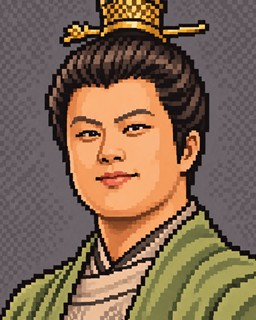
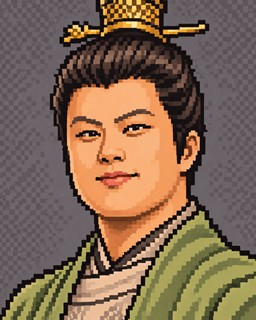
웹 업데이트 2026-11-28 14:30

Changed region(s): [[0.7188, 0.1875, 0.8438, 0.4375], [0.1562, 0.2188, 0.25, 0.5]]

diff --git a/index.html b/index.html
@@ -9,7 +9,7 @@
   <link rel="preload" href="fonts/Sam3KRFont.woff" as="font" type="font/woff" crossorigin><!-- 글꼴을 가장 먼저 받기 시작 -->
   <link rel="preload" href="img/loading.png" as="image"><!-- 로딩 그림도 먼저 -->
   <link rel="icon" type="image/svg+xml" href="img/favicon.svg">
-<link rel="stylesheet" href="style.css?v=20261128142624">
+<link rel="stylesheet" href="style.css?v=20261128143016">
 </head>
 <body class="loading">
   <header class="win titlebar">
@@ -197,24 +197,24 @@
 
   <script src="https://cdn.jsdelivr.net/npm/@supabase/supabase-js@2.45.4/dist/umd/supabase.min.js"></script>
   <script src="https://accounts.google.com/gsi/client" async></script><!-- 구글 로그인 단추 -->
-  <script src="server.js?v=20261128142624"></script>
-  <script src="mapcore.js?v=20261128142624"></script>
-  <script src="data/map.js?v=20261128142624"></script>
-  <script src="rules.js?v=20261128142624"></script>
-  <script src="faces.js?v=20261128142624"></script>
-  <script src="patchnotes.js?v=20261128142624"></script>
+  <script src="server.js?v=20261128143016"></script>
+  <script src="mapcore.js?v=20261128143016"></script>
+  <script src="data/map.js?v=20261128143016"></script>
+  <script src="rules.js?v=20261128143016"></script>
+  <script src="faces.js?v=20261128143016"></script>
+  <script src="patchnotes.js?v=20261128143016"></script>
   <!-- 시즌별 패치노트: 옛 시즌부터 (마지막 줄이 최신) -->
-  <script src="patchnotes/s3.js?v=20261128142624"></script>
-  <script src="patchnotes/s4.js?v=20261128142624"></script>
-  <script src="patchnotes/s5.js?v=20261128142624"></script>
-  <script src="patchnotes/s6.js?v=20261128142624"></script>
-  <script src="patchnotes/s7.js?v=20261128142624"></script>
-  <script src="patchnotes/s8.js?v=20261128142624"></script>
-  <script src="patchnotes/s9.js?v=20261128142624"></script>
-  <script src="mapbg.js?v=20261128142624"></script>
-  <script src="map.js?v=20261128142624"></script>
-  <script src="engine.js?v=20261128142624"></script>
-  <script src="game.js?v=20261128142624"></script>
-  <script src="help.js?v=20261128142624"></script><!-- 새 도움말 (2026-11-25) -->
+  <script src="patchnotes/s3.js?v=20261128143016"></script>
+  <script src="patchnotes/s4.js?v=20261128143016"></script>
+  <script src="patchnotes/s5.js?v=20261128143016"></script>
+  <script src="patchnotes/s6.js?v=20261128143016"></script>
+  <script src="patchnotes/s7.js?v=20261128143016"></script>
+  <script src="patchnotes/s8.js?v=20261128143016"></script>
+  <script src="patchnotes/s9.js?v=20261128143016"></script>
+  <script src="mapbg.js?v=20261128143016"></script>
+  <script src="map.js?v=20261128143016"></script>
+  <script src="engine.js?v=20261128143016"></script>
+  <script src="game.js?v=20261128143016"></script>
+  <script src="help.js?v=20261128143016"></script><!-- 새 도움말 (2026-11-25) -->
 </body>
 </html>

diff --git a/game.js b/game.js
@@ -2181,7 +2181,7 @@ function tourOpenDuel(T, m) {
   tourCloseDuel();
   const w = document.createElement('div');
   w.id = 'duelWrap';
-  w.innerHTML = `<div class="duelBox"><div class="duelBar"><span>${tourIcon(T)} ${tourMatchName(m.slot)} · ${esc(m.names[0])} vs ${esc(m.names[1])}</span><button class="duelClose">✕ 대진표로</button></div><iframe src="duel.html?v=20261128142624&kind=${tourKind(T)}#web&id=${T.id}-${m.slot}" title="무술대회 경기"></iframe></div>`;
+  w.innerHTML = `<div class="duelBox"><div class="duelBar"><span>${tourIcon(T)} ${tourMatchName(m.slot)} · ${esc(m.names[0])} vs ${esc(m.names[1])}</span><button class="duelClose">✕ 대진표로</button></div><iframe src="duel.html?v=20261128143016&kind=${tourKind(T)}#web&id=${T.id}-${m.slot}" title="무술대회 경기"></iframe></div>`;
   w.querySelector('.duelClose').onclick = tourCloseDuel;
   document.body.appendChild(w); fitDuel(w);
   bgmHold(true);
@@ -2191,7 +2191,7 @@ function tourOpenPractice(kind = 'martial') { // kind: 'debate'면 설전 연습
   tourCloseDuel();
   const w = document.createElement('div');
   w.id = 'duelWrap';
-  w.innerHTML = `<div class="duelBox"><div class="duelBar"><span>${kind === 'debate' ? '🗣 설전 연습' : '🥋 연습 경기'}</span><button class="duelClose">✕ 닫기</button></div><iframe src="duel.html?v=20261128142624&kind=${kind}#practice" title="연습 경기"></iframe></div>`;
+  w.innerHTML = `<div class="duelBox"><div class="duelBar"><span>${kind === 'debate' ? '🗣 설전 연습' : '🥋 연습 경기'}</span><button class="duelClose">✕ 닫기</button></div><iframe src="duel.html?v=20261128143016&kind=${kind}#practice" title="연습 경기"></iframe></div>`;
   w.querySelector('.duelClose').onclick = tourCloseDuel;
   document.body.appendChild(w); fitDuel(w);
   bgmHold(true);
@@ -2201,7 +2201,7 @@ function tourOpenRules() {
   tourCloseDuel();
   const w = document.createElement('div');
   w.id = 'duelWrap';
-  w.innerHTML = `<div class="duelBox"><div class="duelBar"><span>📖 ${tourName(tourT())} 규칙</span><button class="duelClose">✕ 대진표로</button></div><iframe src="duel.html?v=20261128142624&kind=${tourKind(tourT())}#rules" title="대회 규칙"></iframe></div>`;
+  w.innerHTML = `<div class="duelBox"><div class="duelBar"><span>📖 ${tourName(tourT())} 규칙</span><button class="duelClose">✕ 대진표로</button></div><iframe src="duel.html?v=20261128143016&kind=${tourKind(tourT())}#rules" title="대회 규칙"></iframe></div>`;
   w.querySelector('.duelClose').onclick = tourCloseDuel;
   document.body.appendChild(w); fitDuel(w);
 }

diff --git a/duel.html b/duel.html
@@ -4,7 +4,7 @@
 <meta charset="utf-8">
 <meta name="viewport" content="width=device-width, initial-scale=1">
 <title>무술대회</title>
-<link rel="stylesheet" href="style.css?v=20261128142624">
+<link rel="stylesheet" href="style.css?v=20261128143016">
 <!-- 무술대회 대결 화면 (웹, 2026-11-14). 게임 화면(game.js tourOpenDuel)이 iframe으로 띄운다: duel.html#web&id=경기id
      lab/martial.html(연구용)에서 만들었다. 규칙은 duel_rules.js, 판정·손패는 서버(duel_core.js)가 한다.
      서버와는 부모 창(게임)의 로그인을 그대로 쓴다: parent.api('duelView'|'duelAct'), parent.sb(실시간 알림 'duel-경기id') -->
@@ -278,7 +278,7 @@
   </div>
 </div>
 
-<script src="duel_rules.js?v=20261128142624"></script>
+<script src="duel_rules.js?v=20261128143016"></script>
 <script>
 // ↓ game.js와 같은 글자 손질 (2026-11-15 기획자: 경기장·규칙 창에도 물결 내리기 적용). game.js 쪽을 바꾸면 여기도
 // 가운데 점 붙이기·물결 내리기 (2026-11-03, 삼국지3글꼴): 이 글꼴은 '·' 자체가 넓어서 양옆 띄어쓰기를 화면에서 뺀다 ("통솔 87 · 무력" → "통솔 87·무력").

diff --git a/rogue.html b/rogue.html
@@ -4,7 +4,7 @@
 <meta charset="utf-8">
 <meta name="viewport" content="width=device-width, initial-scale=1">
 <title>맹장집결</title>
-<link rel="stylesheet" href="style.css?v=20261128142624">
+<link rel="stylesheet" href="style.css?v=20261128143016">
 <!-- 무술대회 카드 대결 연구용 (2026-11-14). 로컬 전용: tools/make_web.sh 목록에 없어서 웹에 올라가지 않는다.
      규칙 (기획자 2026-11-14 확정):
      - 동시 제출. 카드 9종 = 속공·강타·역습 × 소·중·대 (2026-11-14 공격·기술·방어에서 이름 바꿈). 상성 속공 > 강타 > 역습 > 속공. 같은 종류면 대 > 중 > 소, 같으면 비김
@@ -335,8 +335,8 @@
   </div>
 </div>
 
-<script src="duel_rules.js?v=20261128142624"></script>
-<script src="rogue_rules.js?v=20261128142624"></script>
+<script src="duel_rules.js?v=20261128143016"></script>
+<script src="rogue_rules.js?v=20261128143016"></script>
 <!-- 인트로 소리 (파일로 열어도 되게 글자로) -->
 <script>
 'use strict';

diff --git a/privacy.html b/privacy.html
@@ -5,7 +5,7 @@
 <meta name="viewport" content="width=device-width, initial-scale=1">
 <title>개인정보 처리방침 - 땅국지</title>
 <link rel="icon" type="image/svg+xml" href="img/favicon.svg">
-<link rel="stylesheet" href="style.css?v=20261128142624">
+<link rel="stylesheet" href="style.css?v=20261128143016">
 <style>
   body { padding: 16px; }
   .doc { max-width: 760px; margin: 0 auto; line-height: 1.6; }

diff --git a/terms.html b/terms.html
@@ -5,7 +5,7 @@
 <meta name="viewport" content="width=device-width, initial-scale=1">
 <title>이용약관 - 땅국지</title>
 <link rel="icon" type="image/svg+xml" href="img/favicon.svg">
-<link rel="stylesheet" href="style.css?v=20261128142624">
+<link rel="stylesheet" href="style.css?v=20261128143016">
 <style>
   body { padding: 16px; }
   .doc { max-width: 760px; margin: 0 auto; line-height: 1.6; }

diff --git a/faces.js b/faces.js
@@ -5,7 +5,7 @@
 
 // chat: 채팅 닉네임 색 (2026-10-30, 얼굴 그림의 키컬러를 어두운 바탕에서 읽히게 밝게)
 // 얼굴 그림을 바꾸면 FACE_V 숫자를 올린다 (브라우저가 예전 그림을 기억하지 않게)
-const FACE_V = 9;
+const FACE_V = 10;
 
 const FACES = [
   { id: 'm1', name: '무관 1', style: '무관', chat: '#f5a060' },
